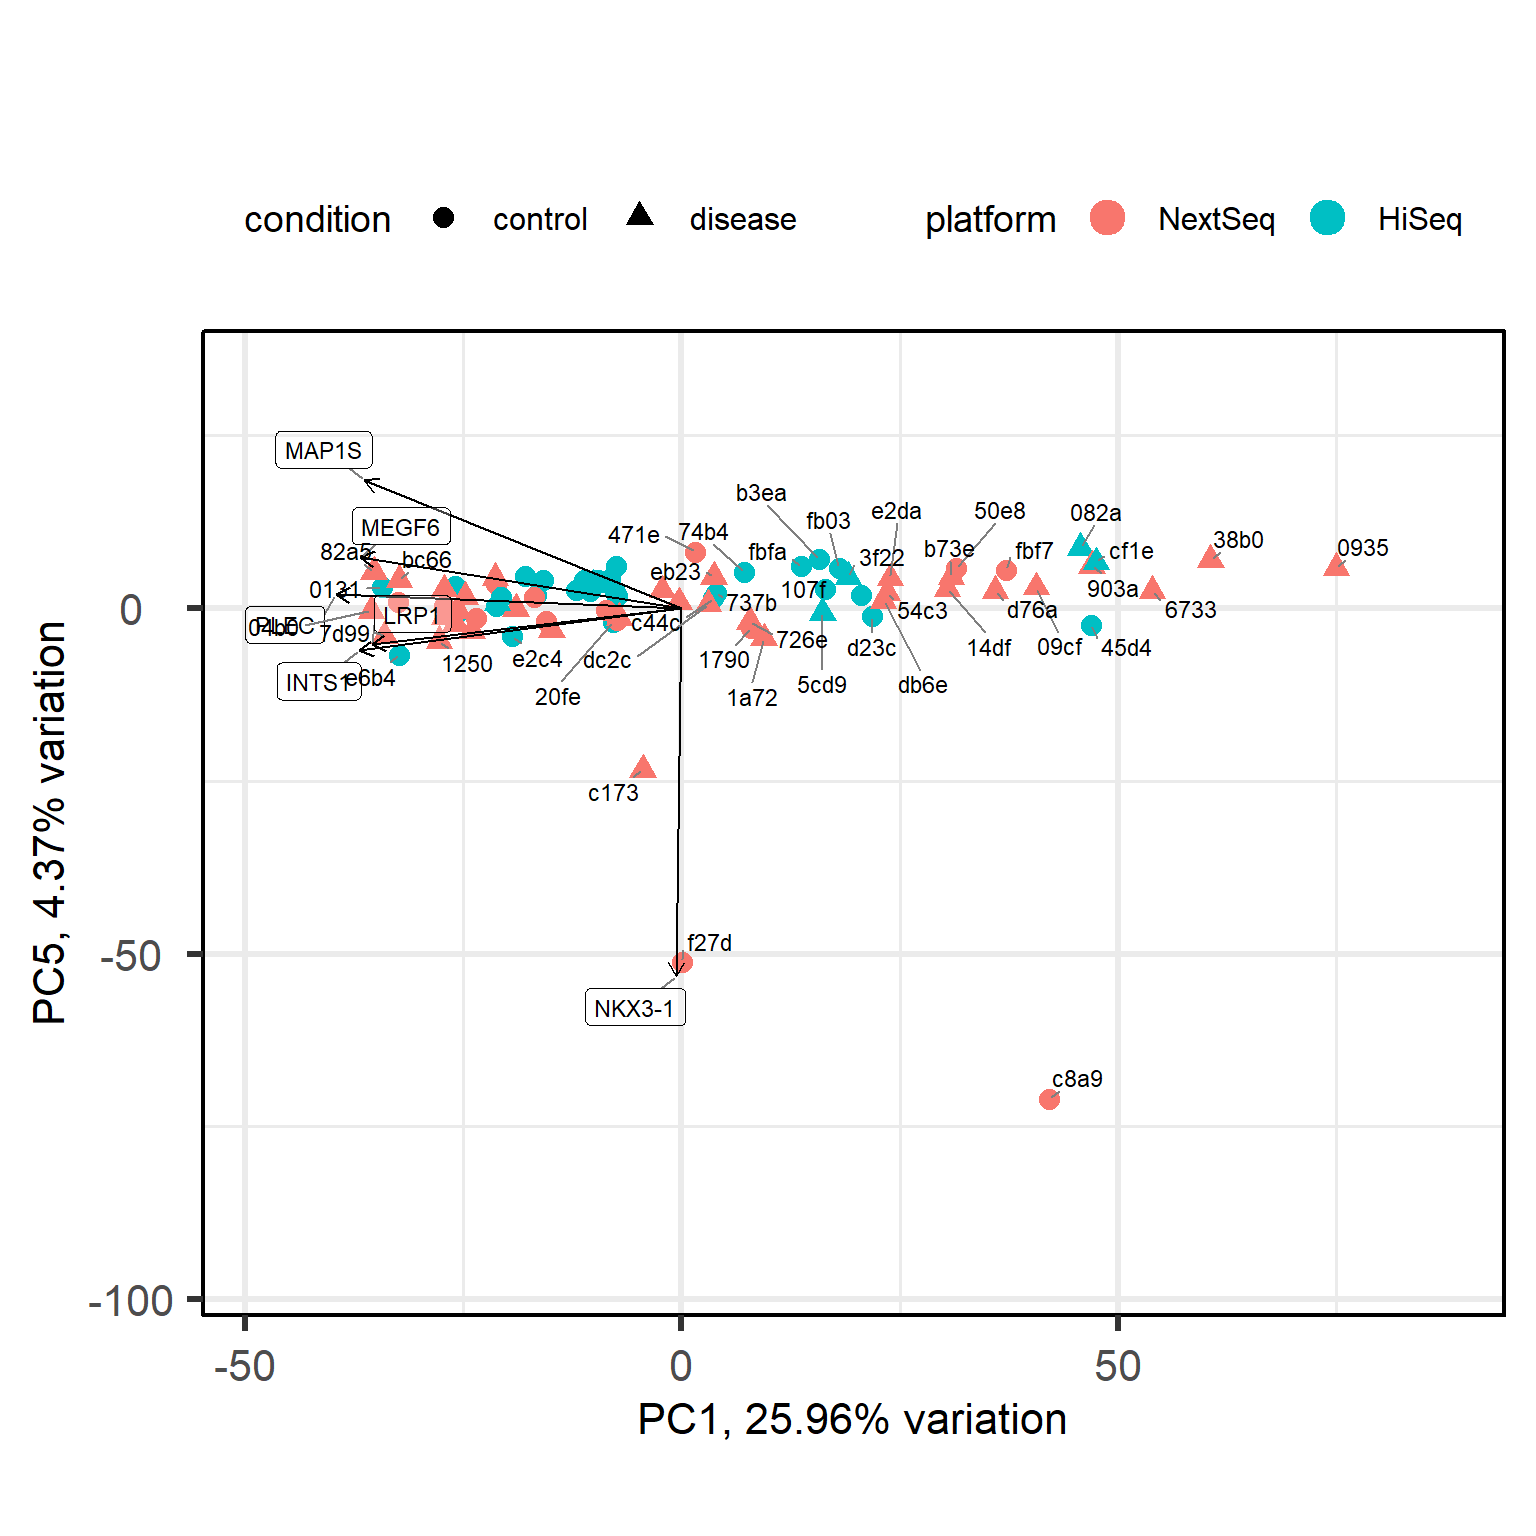
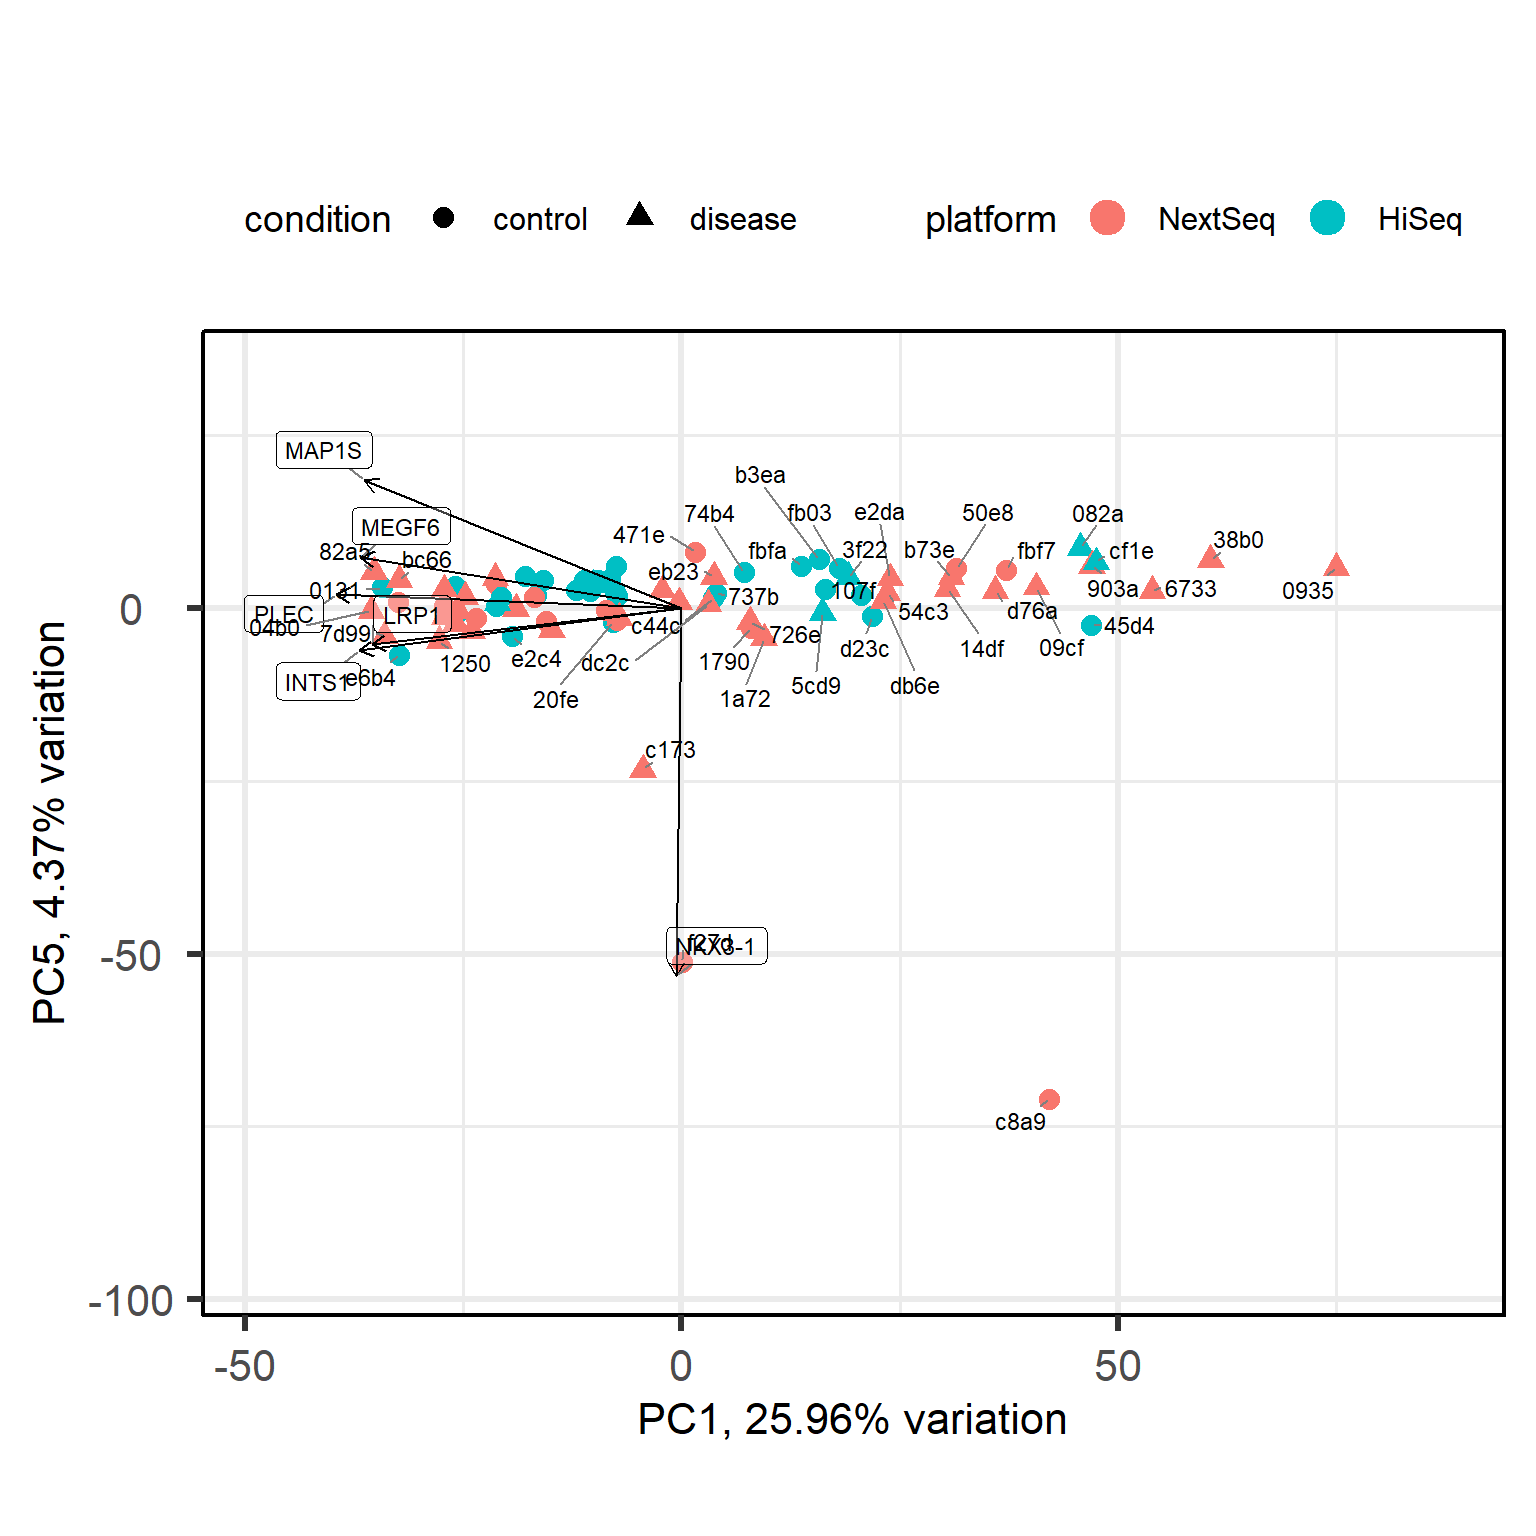
updated rnaseq post 2

diff --git a/docs/posts/rnaseq-part-2/index.html b/docs/posts/rnaseq-part-2/index.html
@@ -529,7 +529,7 @@ NextSeq   HiSeq
 </div>
 </div>
 </div>
-<p>We notice two things: First, samples cluster by platform and the condition looks mixed within clusters. This further supports the idea that the batch effect is a strong source of variation in our data we definitely have to account for in downstream analysis. Second, there is a red strip of four samples which are highly distant from the rest of the samples.</p>
+<p>We notice two things: First, samples cluster by platform and the condition looks mixed within clusters. This further supports the idea that the batch effect is a strong source of variation in our data we definitely have to account for in downstream analysis. Second, there are red strips of samples which are highly distant from the rest of the samples near the top of the plot and around the middle (the red cross). We saw some of these outliers already in the PCA biplot, where they were separated from the rest of the samples along PC5. A sample should only be removed if there is a clear technical justification for doing so, such as low sequencing depth, poor quality metrics, or evidence of contamination. Because we don’t have any additional information about these samples, we will keep them in our analysis for now, but we will keep an eye on them and investigate further if they show up as outliers in downstream analyses as well.</p>
 </section>
 <section id="conclusion" class="level1">
 <h1>Conclusion</h1>

diff --git a/docs/index.html b/docs/index.html
@@ -202,7 +202,7 @@ window.Quarto = {
 
 <div class="quarto-listing quarto-listing-container-default" id="listing-listing">
 <div class="list quarto-listing-default">
-<div class="quarto-post image-right" data-index="0" data-categories="Uk5BLXNlcSUyQ2FuYWx5c2lzJTJDdHV0b3JpYWw=" data-listing-date-sort="1773788400000" data-listing-file-modified-sort="1774610972185" data-listing-date-modified-sort="NaN" data-listing-reading-time-sort="9" data-listing-word-count-sort="1675">
+<div class="quarto-post image-right" data-index="0" data-categories="Uk5BLXNlcSUyQ2FuYWx5c2lzJTJDdHV0b3JpYWw=" data-listing-date-sort="1773788400000" data-listing-file-modified-sort="1774864452095" data-listing-date-modified-sort="NaN" data-listing-reading-time-sort="9" data-listing-word-count-sort="1675">
 <div class="thumbnail"><a href="./posts/rnaseq-part-2/index.html" class="no-external">
 
 <img loading="lazy" src="./posts/rnaseq-part-2/rnaseq-qc.jpg" class="thumbnail-image">
